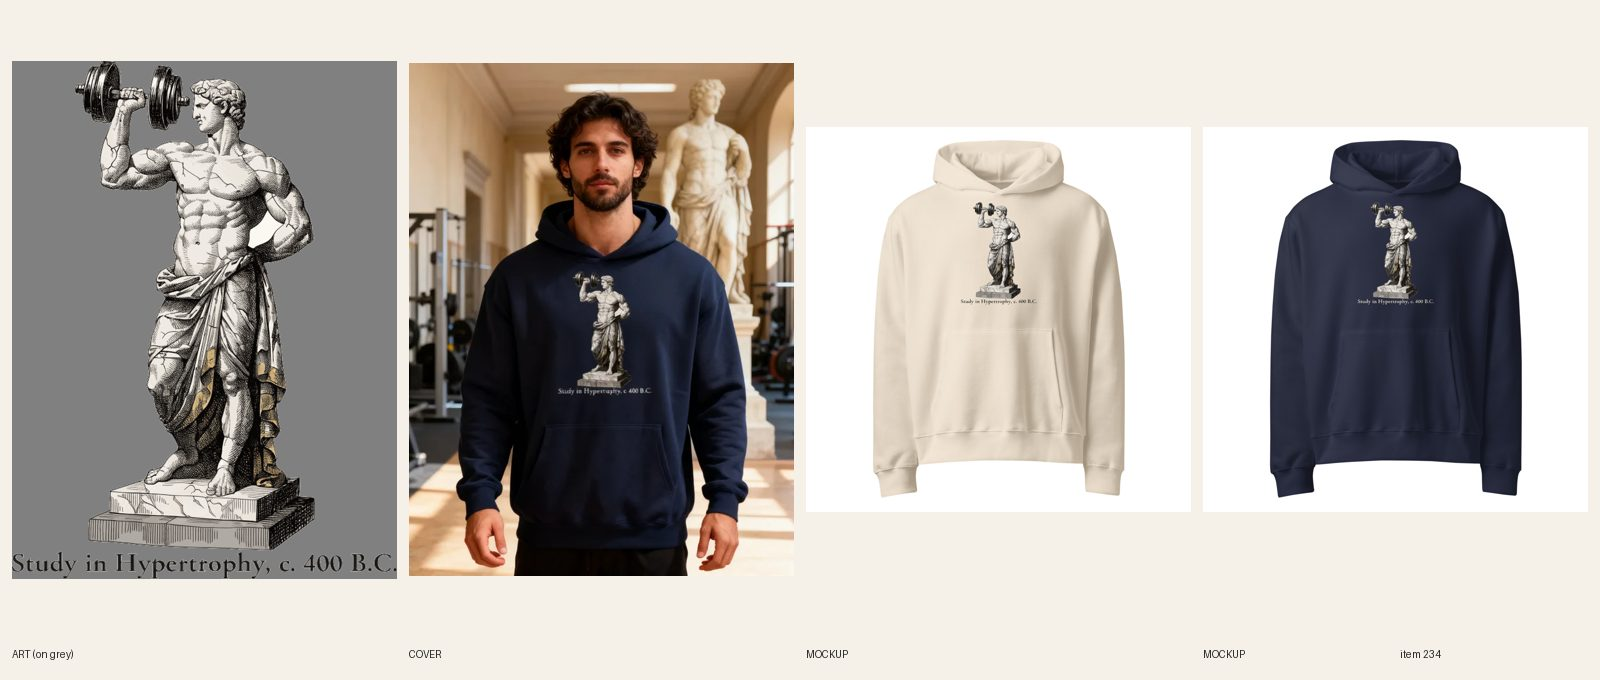
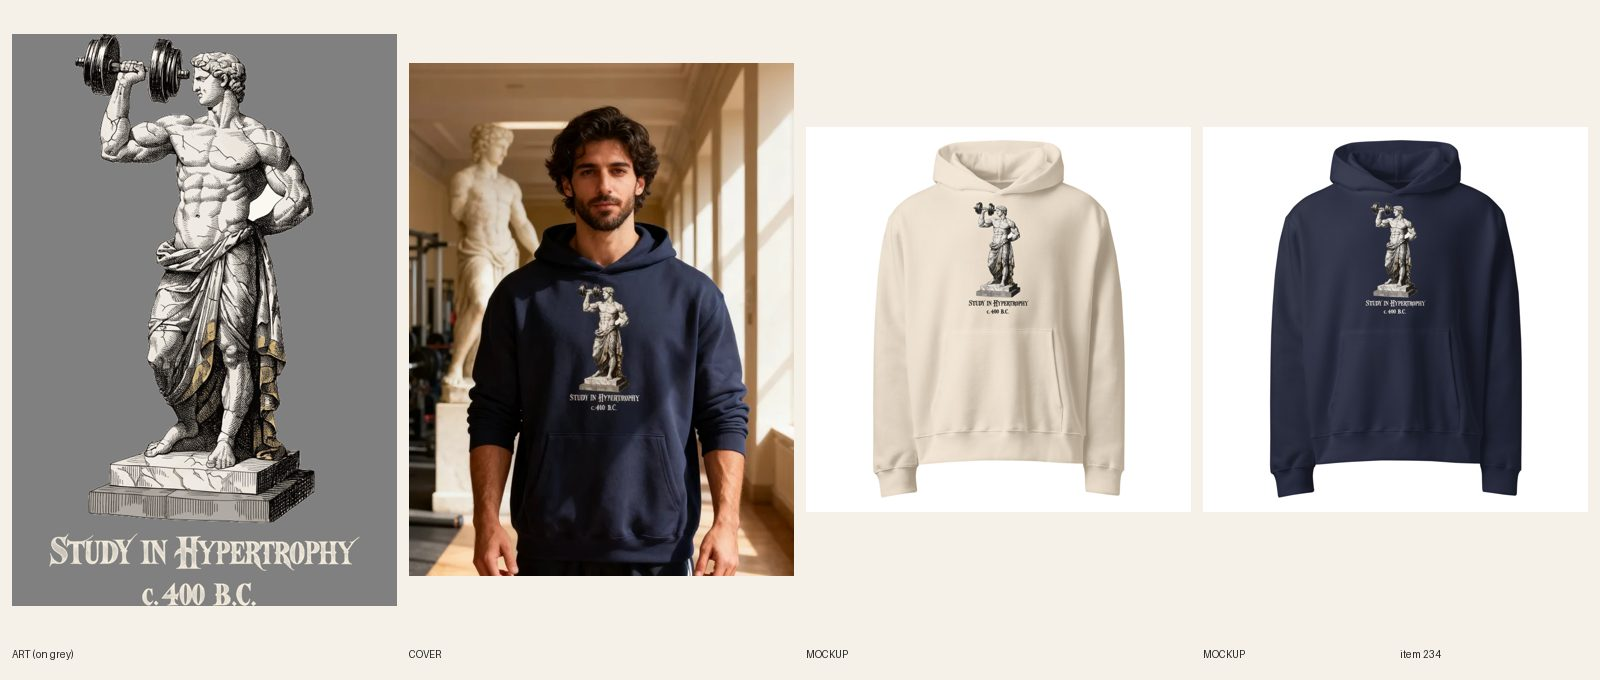
[B] review 228; redo 234 built (sync running)

Changed region(s): [[0.0, 0.0309, 0.5, 0.8956], [0.5938, 0.4015, 0.6562, 0.4632], [0.8438, 0.4015, 0.9062, 0.4632]]

diff --git a/docs/pipeline/234-gym-oversized-hoodie-study-in-hypertrophy.md b/docs/pipeline/234-gym-oversized-hoodie-study-in-hypertrophy.md
@@ -1,4 +1,4 @@
-status: REDO
+status: BUILDING [B] 2026-10-16 22:59
 lane: B
 type: twin
 id: 234
@@ -23,3 +23,4 @@ handle: mens-gym-study-in-hypertrophy-oversized-hoodie
 - 2026-10-16 22:17 UTC director: REDO (product stays DRAFT). Notes:
   1. R3.7.6 / R5.3.5: the caption 'Study in Hypertrophy, c. 400 B.C.' is a default serif font and is too small to read on the mockups or the cover (the joke lives in that line).
   2. Fix in the art: hand-lettered engraving-style caption about 60% of the statue's width, on two lines if needed ('STUDY IN HYPERTROPHY' / 'c. 400 B.C.'), cream on Navy and black on Bone/Dust per R5.3.8. One new Recraft generation for the lettering or compose it in print-prep from a hand-drawn lettering generation; resync, mockups, one cover attempt.
+- 2026-10-16 23:02 UTC [B]: REDO fix (round 1): caption redone as hand-lettered engraving-style capitals (one Recraft v4 generation, text only; spelling checked: STUDY IN HYPERTROPHY / c. 400 B.C., two lines, 2900 px wide = 80% of the statue art, cap height about 250 px) composed under the statue (old caption erased) in print-prep: black ink file 1087884091 for Dust, cream ink file 1087884106 for Navy; statue + caption 3600 x 5353, FW 1100 TOP 0 (7.3 in wide, 10.9 in tall inside the 11 in area). Mockups replaced in place, cover regenerated from a cropped mockup reference (one attempt, registry #308, image 1 of 3; the caption reads, a little soft at 600 px). Set REVIEW at 12/12. Sheet docs/review/234.jpg.

diff --git a/docs/pipeline/228-cropped-cropped-hoodie-ghost-club.md b/docs/pipeline/228-cropped-cropped-hoodie-ghost-club.md
@@ -1,4 +1,4 @@
-status: BUILDING [B] 2026-10-16 22:52
+status: REVIEW
 lane: B
 type: twin
 id: 228
@@ -24,3 +24,4 @@ handle: womens-cropped-ghost-club-cropped-hoodie
   1. R4.1: GHOST CLUB sits inside a scalloped cream badge with a black outline: badge look, never allowed, twins included.
   2. Redraw frameless (one Recraft generation, max 2): the same three ghosts in sunglasses (mustard dots, orange swirls, navy stars) with GHOST CLUB arched above in hand-drawn retro letters, small stars and waves below, nothing behind them. Check the white sheet shapes print as cream ink, not blank fabric holes (R5.3.8). Copy: drop 'inside a scalloped cream badge'.
 - 2026-10-16 22:55 UTC [B]: REDO fix (round 1): redrawn frameless: Recraft v4 try 1 (three ghosts in sunglasses on plain white, GHOST CLUB arched in orange 70s bubble letters, stars + waves, no badge/panel), print-prep 3600 x 3800, Printful file 1087879144, FW 1150 TOP 0, cream sheet stripes/stars print as cream ink (checked on Black and Military Green), mockups replaced in place, copy rewritten (badge wording gone, matching tee line now says 'same three ghosts'), new cover (registry #302, image 3 of 3). Set REVIEW at 10/10. Sheet docs/review/228.jpg.
+- 2026-10-16 22:59 UTC [B]: synced 10/10, REVIEW.
